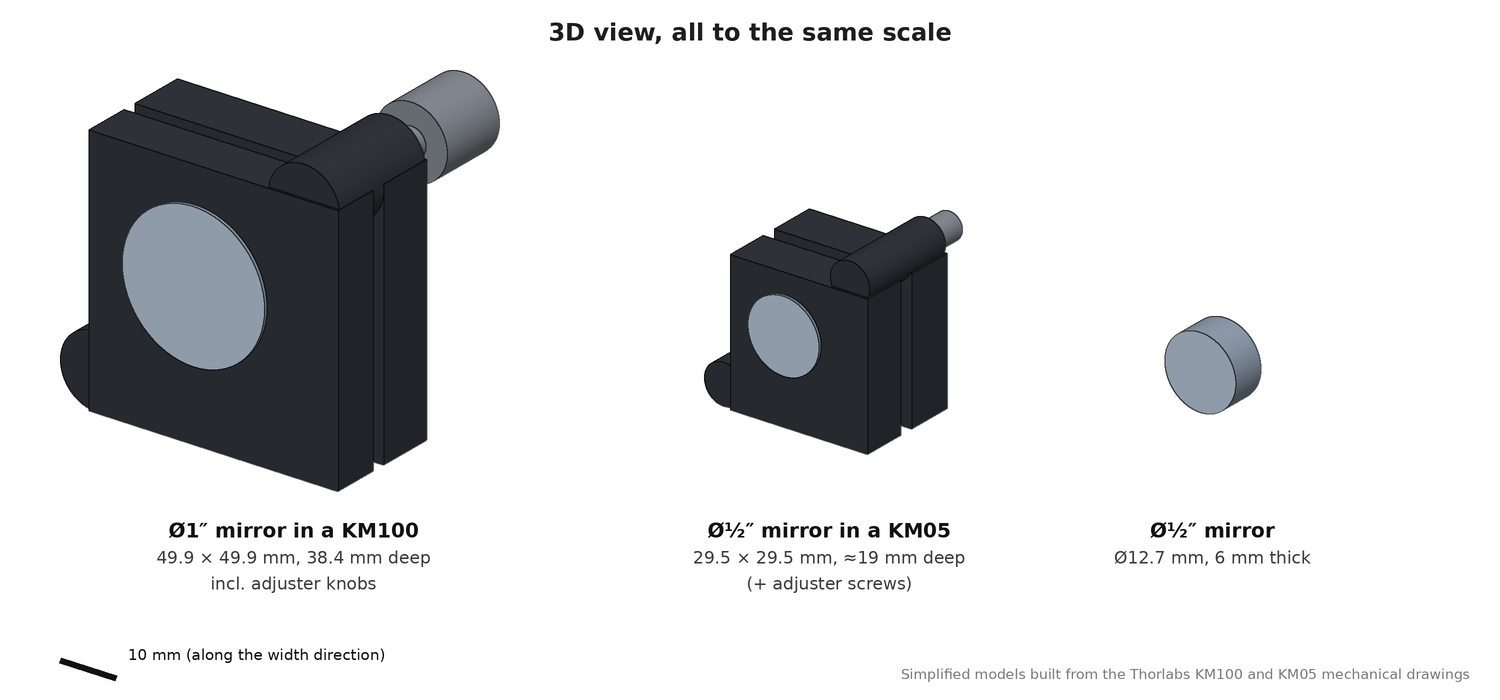
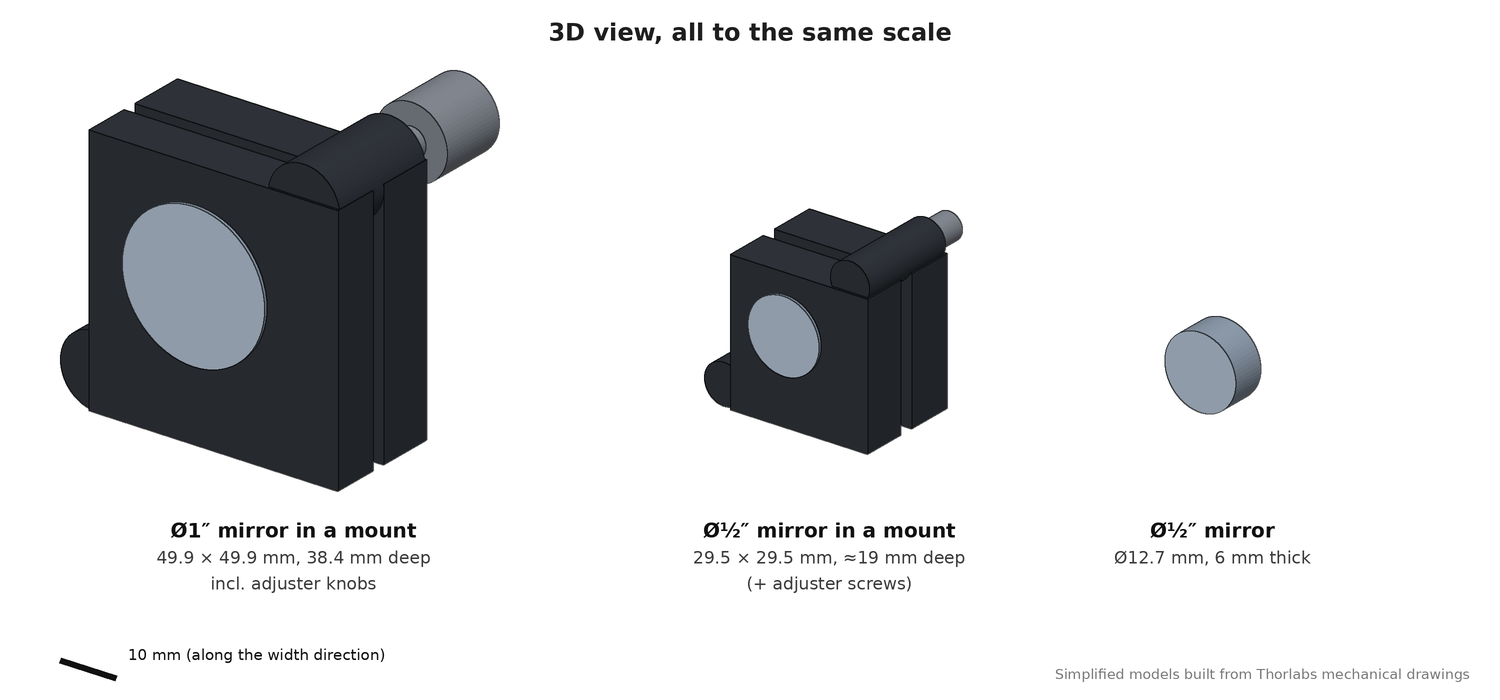
Proposal: interferometer size figure; generic mount names
Claude-Session: https://claude.ai/code/session_01Mx3FBnwCHQgsdWuSz2wbRC

Changed region(s): [[0.6133, 0.93, 0.8893, 0.99], [0.46, 0.75, 0.644, 0.78], [0.092, 0.75, 0.276, 0.78]]

diff --git a/docs/project-proposal.md b/docs/project-proposal.md
@@ -24,15 +24,22 @@ stages) are built in a way that wastes space, time and parts:
    setups drift more (longer lever arms, more mounts, more thermal paths),
    occupy expensive table area, and are hard to move or replicate.
 
-   ![To-scale 3D view: a Ø1″ mirror in a KM100 mount, a Ø½″ mirror in a KM05 mount, and a bare Ø½″ mirror](figures/mount-size-comparison.png)
+   ![To-scale 3D view: a Ø1″ mirror in a mount, a Ø½″ mirror in a mount, and a bare Ø½″ mirror](figures/mount-size-comparison.png)
 
    *To scale: a bare Ø½″ mirror is a 12.7 mm disc, 6 mm thick. In a standard
-   Ø½″ kinematic mount ([Thorlabs KM05](https://www.thorlabs.com/thorproduct.cfm?partnumber=KM05))
-   it occupies a 29.5 mm square about 19 mm deep; the common Ø1″ mount
-   ([Thorlabs KM100](https://www.thorlabs.com/thorproduct.cfm?partnumber=KM100))
-   is 49.9 mm across and 38.4 mm deep. By volume, a KM100 is more than 100
-   times the Ø½″ mirror, before adding the post, post holder and finger room
-   around it. Simplified models built from the Thorlabs mechanical drawings.*
+   Ø½″ kinematic mount it occupies a 29.5 mm square about 19 mm deep; a
+   standard Ø1″ kinematic mount is 49.9 mm across and 38.4 mm deep. By
+   volume, the Ø1″ mount is more than 100 times the Ø½″ mirror, before adding
+   the post, post holder and finger room around it. Simplified models built
+   from Thorlabs mechanical drawings.*
+
+   ![To-scale 3D view of a Michelson interferometer: a practical setup with mounted Ø1″ optics next to a compact alternative with the same optics unmounted](figures/interferometer-comparison.png)
+
+   *The same Michelson interferometer (beamsplitter cube, two Ø1″ mirrors and
+   a stand-in detector), drawn to scale. Left, the practical setup: every
+   optic in a standard mount, spaced to leave room for hands and tools,
+   occupying about 173 × 242 mm. Right, a compact alternative with the same
+   optics unmounted, about 37 × 63 mm: roughly 18 times less table area.*
 2. **They are not fully simulated before parts are placed.** A complete
    calculation (beam propagation through every real catalog part, wave
    effects where coherence matters, sensitivity to every mount error) would

diff --git a/project-proposal.md b/project-proposal.md
@@ -24,15 +24,22 @@ stages) are built in a way that wastes space, time and parts:
    setups drift more (longer lever arms, more mounts, more thermal paths),
    occupy expensive table area, and are hard to move or replicate.
 
-   ![To-scale 3D view: a Ø1″ mirror in a KM100 mount, a Ø½″ mirror in a KM05 mount, and a bare Ø½″ mirror](figures/mount-size-comparison.png)
+   ![To-scale 3D view: a Ø1″ mirror in a mount, a Ø½″ mirror in a mount, and a bare Ø½″ mirror](figures/mount-size-comparison.png)
 
    *To scale: a bare Ø½″ mirror is a 12.7 mm disc, 6 mm thick. In a standard
-   Ø½″ kinematic mount ([Thorlabs KM05](https://www.thorlabs.com/thorproduct.cfm?partnumber=KM05))
-   it occupies a 29.5 mm square about 19 mm deep; the common Ø1″ mount
-   ([Thorlabs KM100](https://www.thorlabs.com/thorproduct.cfm?partnumber=KM100))
-   is 49.9 mm across and 38.4 mm deep. By volume, a KM100 is more than 100
-   times the Ø½″ mirror, before adding the post, post holder and finger room
-   around it. Simplified models built from the Thorlabs mechanical drawings.*
+   Ø½″ kinematic mount it occupies a 29.5 mm square about 19 mm deep; a
+   standard Ø1″ kinematic mount is 49.9 mm across and 38.4 mm deep. By
+   volume, the Ø1″ mount is more than 100 times the Ø½″ mirror, before adding
+   the post, post holder and finger room around it. Simplified models built
+   from Thorlabs mechanical drawings.*
+
+   ![To-scale 3D view of a Michelson interferometer: a practical setup with mounted Ø1″ optics next to a compact alternative with the same optics unmounted](figures/interferometer-comparison.png)
+
+   *The same Michelson interferometer (beamsplitter cube, two Ø1″ mirrors and
+   a stand-in detector), drawn to scale. Left, the practical setup: every
+   optic in a standard mount, spaced to leave room for hands and tools,
+   occupying about 173 × 242 mm. Right, a compact alternative with the same
+   optics unmounted, about 37 × 63 mm: roughly 18 times less table area.*
 2. **They are not fully simulated before parts are placed.** A complete
    calculation (beam propagation through every real catalog part, wave
    effects where coherence matters, sensitivity to every mount error) would
